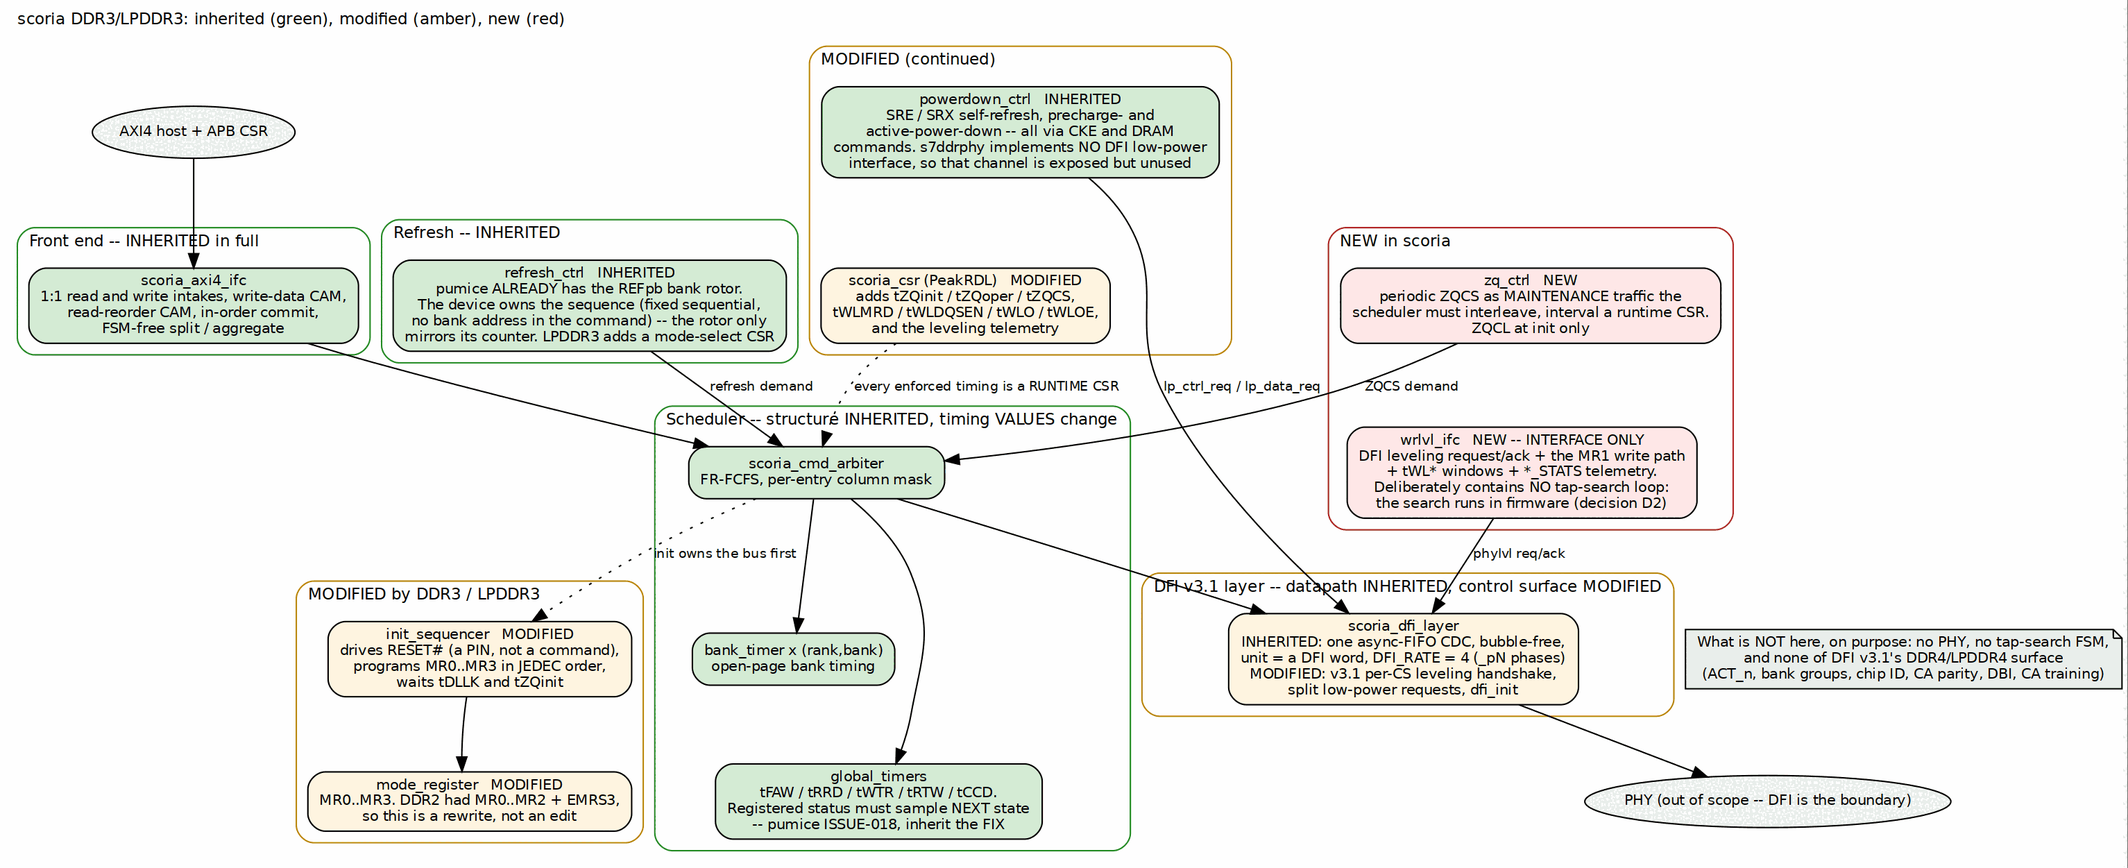
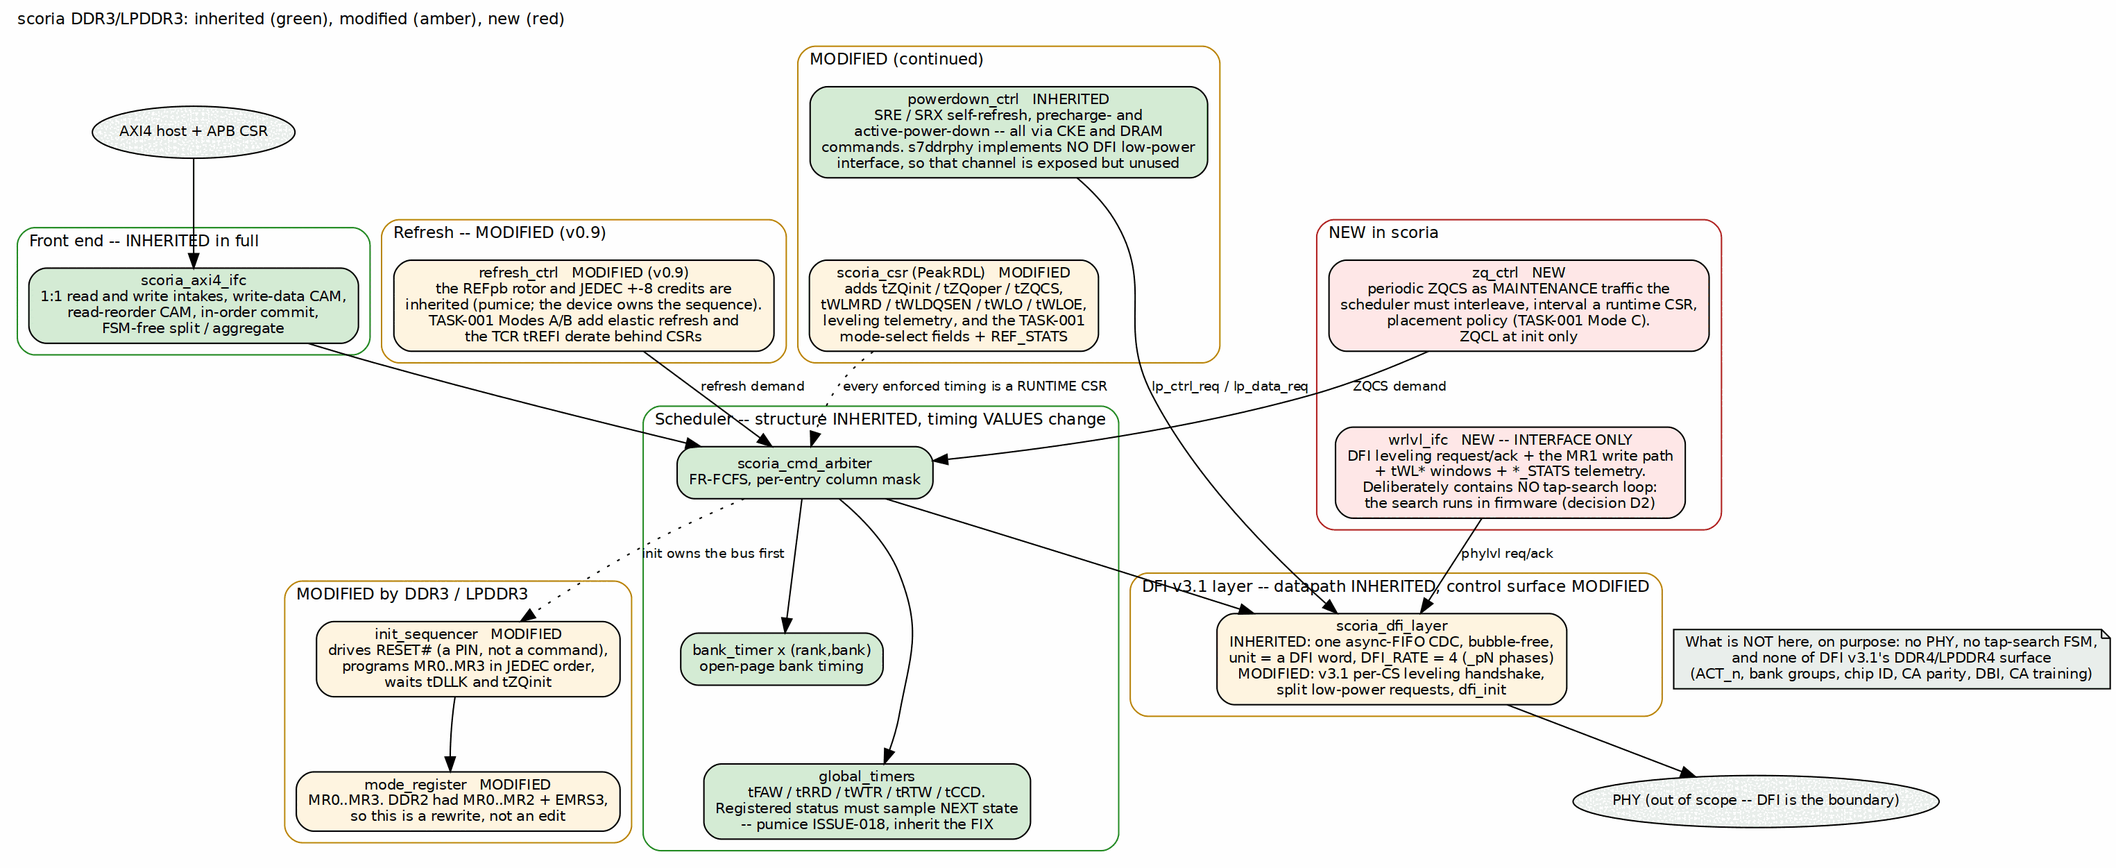
docs(scoria): HAS v0.9 -- TASK-001 advanced modes (A/B/C) specified in Ch 2/3/5

diff --git a/projects/components/mem-ctrl-ip/scoria-ddr3-lpddr3/docs/scoria_has/ch03_architecture/04_refresh.md b/projects/components/mem-ctrl-ip/scoria-ddr3-lpddr3/docs/scoria_has/ch03_architecture/04_refresh.md
@@ -23,12 +23,17 @@
 
 # Refresh: DDR3 All-Bank and LPDDR3 Per-Bank
 
-## Marking: INHERITED, with a mode select
+## Marking: MODIFIED (v0.9) — inherited mechanism, TASK-001 modes on top
 
-This chapter changed between v0.1 and v0.2 of this document. v0.1 marked
-`refresh_ctrl` MODIFIED on the assumption that LPDDR3 per-bank refresh was new
-work. It is not: **pumice already implements it**, for LPDDR2, and the mechanism
-LPDDR3 specifies is the same one.
+This chapter's marking has now changed twice. v0.1 marked `refresh_ctrl`
+MODIFIED on the assumption that LPDDR3 per-bank refresh was new work. v0.2
+corrected it to INHERITED, because **pumice already implements it**, for
+LPDDR2, and the mechanism LPDDR3 specifies is the same one. v0.9 corrects it
+once more, to MODIFIED: the inherited mechanism described below is unchanged,
+but TASK-001's Modes A and B — demand-aware elastic refresh and
+temperature-compensated refresh — are a named, bounded change layered on top
+of it. They are scheduling policy only; the JEDEC ±8 credit ceiling is
+untouched. The modes are specified at the end of this chapter.
 
 ## What pumice already has
 
@@ -112,4 +117,53 @@ this family has been bitten by before.
 knowing about, because it looks like an arbitrary constant. Demand is CAM
 occupancy, which blinks off for a few cycles between bursts; treating those
 micro-gaps as idle would release postponed refreshes mid-stream and trigger
-pull-ins. Only a sustained gap counts, confirmed over sixteen cycles.
+pull-ins. Only a sustained gap counts — confirmed over sixteen cycles in the
+inherited baseline, and over the CSR-configurable `pullin_idle_streak`
+(reset 16, the same value) once Mode A below is enabled.
+
+## What TASK-001 adds: Modes A and B
+
+Both modes are CSR-selected, reset to off, and bit-identical to the baseline
+above when disabled — the same "config not param" rule the rest of the
+controller runs on. Per-mode design detail lives in
+`design-requirements.md` §6; only the architecture-relevant contract is
+restated here.
+
+### Mode A — demand-aware elastic refresh
+
+`REF_CTRL.elastic_en` (reset 0 = baseline), with two threshold fields in the
+same register: `pullin_idle_streak` (reset 16 — the inherited constant, now
+sweepable) and `postpone_demand_streak` (reset 1).
+
+- **Pull-in** fires only after demand has been idle for `pullin_idle_streak`
+  MC cycles, generalizing the inherited sixteen-cycle confirmation into a
+  host-sweepable threshold.
+- **Postpone** engages only under a sustained demand streak of
+  `postpone_demand_streak` cycles. Below that, demand counts as sporadic and
+  the strict baseline stands: a refresh is requested on every interval expiry
+  while anything is pending.
+- The JEDEC ±8 postpone/pull-in credits remain the hard ceiling in every
+  configuration; Mode A never touches the credit arithmetic.
+- Telemetry: `REF_STATS_POSTPONE` / `REF_STATS_PULLIN` count the events, so
+  an elastic-refresh sweep is measurable in-system rather than inferred.
+
+### Mode B — temperature-compensated refresh (TCR)
+
+`REF_CTRL.tcr_en` (reset 0) + `trefi_derate` (reset 0 = 1x; 1 = 2x, 2 = 4x;
+the illegal encoding 3 clamps to 4x). Firmware writes the JESD79-3F §7.3.3
+refresh-rate class and the tREFI tick scales with it — a cheaper refresh rate
+where temperature allows, at a retention margin the temperature guarantees.
+Three properties matter:
+
+- Derate applies to the **counter reload only**: a mid-interval CSR change
+  takes effect on the next reload; the running counter is not rescaled.
+- `TEMP_DERATE_RANK0` keeps its LPDDR3-MR4 hardware-written path untouched
+  for the future LPDDR3 build; the DDR3 path is this software-written select.
+- The retention property is **re-derived with the derate factor in the
+  interval arithmetic** — the same rule as `REFpb` above: a changed interval
+  changes the proof, and the proof is never carried forward green.
+
+Formal status: with both modes present, the retention and accounting
+properties remain green in `formal/scoria/refresh_ctrl`, with cover points at
+the configured pull-in streak boundary (evidence: scoria TASK-001 close,
+2026-10-03).

diff --git a/projects/components/mem-ctrl-ip/scoria-ddr3-lpddr3/docs/scoria_has/ch02_overview/03_module_hierarchy.md b/projects/components/mem-ctrl-ip/scoria-ddr3-lpddr3/docs/scoria_has/ch02_overview/03_module_hierarchy.md
@@ -51,13 +51,14 @@ fixed form — see Chapter 2.2), `scoria_cmd_arbiter`, `scoria_page_policy`,
 `scoria_wr_intake`, `scoria_wr_splitter`, `scoria_rd_return_ring`,
 `scoria_axi_burst_chopper`, `scoria_dfi_cdc`, `scoria_dfi_cmd_path`,
 `scoria_dfi_rd_aligner`, `scoria_dfi_wr_serializer`,
-`scoria_cmd_history_checker`, and **`refresh_ctrl`** -- which already carries the
-`REFpb` bank rotor for LPDDR2 and needs only a mode-select CSR for LPDDR3, and
-**`powerdown_ctrl`** -- power-down is CKE plus `SRE`/`SRX` on this PHY family,
-so only the new command encodings change, and **`dfi_signal_pack`** -- a pure
-registered pipeline stage whose packed signals v3.1 does not touch.
+`scoria_cmd_history_checker`, and **`powerdown_ctrl`** -- power-down is CKE
+plus `SRE`/`SRX` on this PHY family, so only the new command encodings
+change, and **`dfi_signal_pack`** -- a pure registered pipeline stage whose
+packed signals v3.1 does not touch.
 
-That is 21 of the 24 FUBs carried over with no functional change. The command
+That is 20 of the 24 FUBs carried over with no functional change; the count
+was 21 through v0.8, and `refresh_ctrl` is the one that moved — into the
+modified table below, for TASK-001's Modes A/B (Ch 3.4). The command
 history checker is worth naming explicitly: it is the verification-side block
 that independently re-derives JEDEC spacing from the issued command stream, and
 it must grow DDR3's parameters, but its mechanism is inherited.
@@ -69,6 +70,7 @@ it must grow DDR3's parameters, but its mechanism is inherited.
 | `init_sequencer` | DDR3 adds a `RESET#` pin and a four-register MR set | Ch 3.2 |
 | `mode_register` | MR0-MR3 replaces MR0-MR2 plus EMRS3 | Ch 3.2 |
 | `dfi_cmd_formatter` | new command encodings: `ZQCL`, `ZQCS`, `PREA` | Ch 3.2 |
+| `refresh_ctrl` | TASK-001 Modes A/B — elastic pull-in/postpone streaks and the TCR tREFI derate behind CSRs. The `REFpb` rotor and the JEDEC ±8 credit accumulator are inherited unchanged | Ch 3.4 |
 
 : Table 2.2: Modified FUBs
 
@@ -76,7 +78,7 @@ it must grow DDR3's parameters, but its mechanism is inherited.
 
 | Module | Purpose |
 |---|---|
-| `scoria_zq_ctrl` | issues `ZQCS` periodically as maintenance traffic; interval a runtime CSR. `ZQCL` is init-only and belongs to the init sequencer |
+| `scoria_zq_ctrl` | issues `ZQCS` periodically as maintenance traffic; interval a runtime CSR; CSR-selectable placement policy (TASK-001 Mode C). `ZQCL` is init-only and belongs to the init sequencer |
 | `scoria_wrlvl_ifc` | the write-leveling interface: DFI leveling handshake, MR1 write path, `tWL*` window enforcement, `*_STATS` telemetry. **No search loop** |
 
 : Table 2.3: New FUBs

diff --git a/projects/components/mem-ctrl-ip/scoria-ddr3-lpddr3/docs/scoria_has/ch00_front_matter/00_document_info.md b/projects/components/mem-ctrl-ip/scoria-ddr3-lpddr3/docs/scoria_has/ch00_front_matter/00_document_info.md
@@ -26,9 +26,9 @@
 | Field | Value |
 |-------|-------|
 | Title | scoria DDR3/LPDDR3 Family Controller — Hardware Architecture Specification |
-| Version | 0.8 |
+| Version | 0.9 |
 | Date | 2026-10-03 |
-| Status | Reconciliation edition. Specifies the controller; the RTL exists, and v0.8 reconciles the two — revision history below |
+| Status | Advanced-modes edition. v0.8 reconciled this book with the landed RTL; v0.9 specifies TASK-001's bounded advanced modes (elastic refresh, TCR, ZQCS placement) in Ch 3.2/3.4 per that RTL — revision history below |
 | Scope | Controller architecture to the DFI v3.1 boundary, for DDR3 and LPDDR3 |
 | Not in scope | The PHY; board bring-up; the DDR4/LPDDR4 features DFI v3.1 also carries |
 
@@ -71,6 +71,7 @@ it a scheduling problem and not only a sequencing one.
 
 | Version | Date | Change |
 |---------|------|--------|
+| 0.9 | 2026-10-03 | TASK-001's bounded advanced-modes tranche specified from the landed RTL: Mode A (demand-aware elastic refresh) and Mode B (TCR) in Ch 3.4, Mode C (ZQCS placement policy) in Ch 3.2, with the mode-select CSRs and `REF_STATS` telemetry in Ch 5. `refresh_ctrl` marking INHERITED → MODIFIED; the Ch 2 block diagram (figure re-rendered), module hierarchy, and Ch 3.1 deltas table updated to match (inherited FUB count 21 → 20). The refresh/ZQ portion of the TASK-008 reconciliation is thereby done; the remainder — the other inherited blocks, `tWLMRD`'s policy value, and whole-map CSR finalization — stays open in Ch 6. |
 | 0.8 | 2026-10-03 | Reconciled with the landed RTL and the first board work: verification status brought current (221 tests, 9 formal blocks, top tier AXI-in/DFI-out); `dfi_reset_n` recorded as presented under its DFI name and the two v3.1-only data-phase chip selects recorded as driven, constant `'0` at `NUM_RANKS=1` (scoria TASK-005); the board build flow and the BUG-003 100 MHz out-of-context timing result recorded. What remains for a 1.0 is restated in Chapter 6 and filed as a task. |
 | 0.7 | 2026-09-30 | Ch 3.2: DDR3's init sequence needs no precharge-all, no double refresh, no OCD pair and no second MR0 load (the DLL-reset bit is self-clearing) -- the FSM drops seven of pumice's states and adds three. Found while implementing. |
 | 0.6 | 2026-09-30 | Corrected during implementation: `dfi_signal_pack` is INHERITED, not MODIFIED -- it packs only signals DFI v3.1 leaves unchanged, and v3.1's new channels are driven at the layer above. Inherited FUBs 20 -> 21, modified 4 -> 3. |

diff --git a/projects/components/mem-ctrl-ip/scoria-ddr3-lpddr3/docs/scoria_has/ch03_architecture/01_deltas.md b/projects/components/mem-ctrl-ip/scoria-ddr3-lpddr3/docs/scoria_has/ch03_architecture/01_deltas.md
@@ -25,9 +25,12 @@
 
 ## The inheritance, stated once
 
-Twenty-one of pumice's twenty-four FUBs carry over with no functional change, as
-do the top, core, AXI4 macro and the DFI datapath. Chapter 2.3 lists them. This
-chapter covers only what changes, and the list is short by design.
+Twenty of pumice's twenty-four FUBs carry over with no functional change, as
+do the top, core, AXI4 macro and the DFI datapath. Chapter 2.3 lists them; the
+count was twenty-one through v0.8, and v0.9 moves `refresh_ctrl` to MODIFIED —
+the `REFpb` inheritance stands, but TASK-001's Modes A/B are a real change to
+the block, specified in Ch 3.4. This chapter covers only what changes, and the
+list is short by design.
 
 **The inheritance is an argument, not a convenience.** Those blocks have been
 through board bring-up, a read-path rebuild that took reads from 291.7 to
@@ -49,13 +52,13 @@ the description does not mention the flop. Copy the module.
 | `init_sequencer` | MODIFIED | `RESET#` is a pin; MR order is MR2-MR3-MR1-MR0; ZQCL closes init | 3.2 |
 | `mode_register` | MODIFIED | MR0-MR3 replaces MR0-MR2 plus EMRS3 | 3.2 |
 | `dfi_cmd_formatter` | MODIFIED | new encodings: `ZQCL`, `ZQCS`, `PREA` | 3.2 |
-| `scoria_zq_ctrl` | **NEW** | periodic `ZQCS` is maintenance traffic | 3.2 |
+| `scoria_zq_ctrl` | **NEW** | periodic `ZQCS` is maintenance traffic; carries the CSR-selectable placement policy (TASK-001 Mode C) | 3.2 |
 | `scoria_wrlvl_ifc` | **NEW** | DDR3 adds write leveling | 3.3 |
-| `refresh_ctrl` | INHERITED | pumice already implements `REFpb`; LPDDR3 uses the same device-fixed mechanism. Only a mode-select CSR is added | 3.4 |
+| `refresh_ctrl` | MODIFIED (v0.9) | the `REFpb` mechanism is inherited unchanged, but TASK-001 Modes A/B add elastic pull-in/postpone streaks and the TCR tREFI derate behind CSRs; JEDEC ±8 ceiling untouched | 3.4 |
 | `powerdown_ctrl` | INHERITED | mechanism unchanged: CKE + `SRE`/`SRX`. The DFI low-power channel is unused on this PHY family | below |
 | `dfi_signal_pack` | INHERITED | every signal it packs is identical in v2.1.1 and v3.1 for DDR3; v3.1's new channels are driven at the layer above | Ch 4.1 |
 | `scoria_mem_cmd_scheduler` | MODIFIED | must admit ZQ demand alongside refresh | 3.2 |
-| `scoria_csr` | MODIFIED | new timing registers and leveling telemetry | Ch 5 |
+| `scoria_csr` | MODIFIED | new timing registers and leveling telemetry; TASK-001 mode-select fields and `REF_STATS` telemetry | Ch 5 |
 
 : Table 3.1: Every change, with its cause
 

diff --git a/projects/components/mem-ctrl-ip/scoria-ddr3-lpddr3/docs/scoria_has/ch06_integration/01_verification_open.md b/projects/components/mem-ctrl-ip/scoria-ddr3-lpddr3/docs/scoria_has/ch06_integration/01_verification_open.md
@@ -86,8 +86,14 @@ The four verification items named above remain the coverage plan for the
 DDR3-specific behaviour; this edition does not claim they are all complete.
 What separates this edition from a 1.0 is stated below and filed as a task.
 
-2026-10-03, TASK-001's bounded tranche exists behind CSRs; per-mode design in
-`design-requirements.md` §6; block-by-block confirmation is TASK-008's pass.
+2026-10-03 (v0.9): TASK-001's bounded tranche exists behind CSRs and is now
+specified in this book — Modes A/B (elastic refresh, TCR) in Chapter 3.4, Mode
+C (ZQCS placement) in Chapter 3.2 — per the landed RTL, with per-mode design
+detail in `design-requirements.md` §6. Evidence (scoria TASK-001 close): 211
+FUB + 21 macro + 4 top tests, Verilator and Verible lint green, and the
+refresh retention/accounting properties re-proved with the modes present in
+`formal/scoria/refresh_ctrl`. Block-by-block confirmation of the remaining
+INHERITED blocks is still TASK-008's pass.
 
 ## Question resolutions (v0.2)
 
@@ -224,13 +230,15 @@ Three things, in order:
 2. This document reconciled against the RTL block by block — every
    INHERITED marking either confirmed or corrected. v0.8 reconciled what
    implementation and the first board work had settled (revision history,
-   Ch 0); the block-by-block confirmation pass remains. A marking that turns
-   out to be wrong is a defect in this document, and the correction goes here
-   rather than being dropped silently.
+   Ch 0); v0.9 completed the pass for the two blocks TASK-001 had just
+   changed (refresh in Ch 3.4, ZQ in Ch 3.2); the block-by-block
+   confirmation of the remaining inherited blocks is still to do. A marking
+   that turns out to be wrong is a defect in this document, and the
+   correction goes here rather than being dropped silently.
 3. The exact CSR map, which comes from the RDL and cannot honestly precede it.
    The RDL now exists (`rtl/macro/scoria_csr.rdl`, with generated
    documentation and Python regmap); finalizing the map against it is part of
    the same pass.
 
-Until then this is a 0.8: a specification that matches what has been built and
+Until then this is a 0.9: a specification that matches what has been built and
 verified, and explicit about what remains unconfirmed.

diff --git a/projects/components/mem-ctrl-ip/scoria-ddr3-lpddr3/docs/scoria_has/ch03_architecture/02_init_zq.md b/projects/components/mem-ctrl-ip/scoria-ddr3-lpddr3/docs/scoria_has/ch03_architecture/02_init_zq.md
@@ -100,14 +100,27 @@ shape as refresh, and refresh has its own controller for the same reason.
 - raises a demand to the scheduler rather than seizing the bus;
 - enforces `tZQCS` before releasing the bus back;
 - reports a count of issued calibrations, so the interval can be confirmed from
-  the host rather than assumed.
+  the host rather than assumed;
+- carries a CSR-selectable **placement policy** (`ZQ_CFG.placement`,
+  TASK-001 Mode C, specified below).
 
 **The scheduler change is one input, not a rework.** `scoria_mem_cmd_scheduler`
 already arbitrates refresh demand against demand traffic; ZQ adds a second
 maintenance source with the same shape.
 
-**Note:** whether ZQCS should ever *preempt* queued demand traffic, or only fill
-gaps, is deliberately not fixed in this edition. The baseline requirement is that
-periodic ZQCS is issued at all, with the interval observable and settable.
-Cleverness about placement is a characterization question, and scoria TASK-001
-already owns the survey of scheduling modes.
+**Placement policy (v0.9, TASK-001 Mode C).** Whether ZQCS should *preempt*
+queued demand traffic, or only fill gaps, is no longer an open question — it
+is a CSR-selectable policy, reset to the baseline. `ZQ_CFG.placement`
+selects: 0 = request on interval expiry (the baseline above); 1 =
+defer-under-demand — at expiry, if the scheduler reports sustained demand,
+the request is held rather than raised, up to `ZQ_CFG.overdue_max` MC cycles
+(0 = uncapped), after which the request fires regardless. Policy value 2 is
+reserved. Two things hold in every policy: the module still **requests and
+waits — it never preempts** (the Ch 6 Q2 answer stands), and `tZQCS` is still
+enforced by holding off the next interval rather than blocking traffic. The
+starvation revisit condition named in Ch 6 Q2 — the interval slipping
+materially past its CSR value under sustained demand — is now measurable
+with the instruments this block already carries (`obs_overdue`,
+`obs_zqcs_total`) plus the `overdue_max` cap itself, which turns runaway
+deferral from a suspected hang into a bounded, observable policy choice.
+Per-mode design detail is in `design-requirements.md` §6.

diff --git a/projects/components/mem-ctrl-ip/scoria-ddr3-lpddr3/docs/scoria_has/ch02_overview/02_block_diagram.md b/projects/components/mem-ctrl-ip/scoria-ddr3-lpddr3/docs/scoria_has/ch02_overview/02_block_diagram.md
@@ -58,13 +58,19 @@ block from the same description would reintroduce the bug.
 **The amber blocks are the three FUBs the standards change:** the init
 sequencer, the mode-register block, and `dfi_cmd_formatter` for the new
 command encodings — plus the CSR block, which grows to hold the new timings.
+v0.9 adds a fourth FUB to the amber set: `refresh_ctrl`, for TASK-001's
+Modes A/B (Chapter 3.4) — a CSR-selected scheduling-policy layer, not a
+mechanism change.
 
-**Note:** refresh and power-down are green, and both were amber in earlier
-editions of this book. Refresh because pumice already implements `REFpb` and the
-device owns the sequence (Chapter 3.4); power-down because it works through CKE
-and `SRE`/`SRX`, and the DFI low-power channel that v0.2 built a requirement
-around is not implemented by this PHY family at all (Chapter 3.1). Both
-corrections came from reading an artifact instead of reasoning about one.
+**Note:** power-down is green, and was amber in earlier editions of this book:
+it works through CKE and `SRE`/`SRX`, and the DFI low-power channel that v0.2
+built a requirement around is not implemented by this PHY family at all
+(Chapter 3.1). Refresh was corrected to green the same way — pumice already
+implements `REFpb` and the device owns the sequence (Chapter 3.4) — and v0.9
+turns it amber again, for a different reason: TASK-001's Modes A/B add a
+CSR-selected scheduling-policy layer (elastic refresh, TCR) on top of the
+inherited mechanism. Both corrections came from reading an artifact instead of
+reasoning about one.
 
 `dfi_signal_pack` went the same way during implementation: marked MODIFIED for
 the "v3.1 signal set", it turned out to pack only signals v3.1 leaves alone.

diff --git a/projects/components/mem-ctrl-ip/scoria-ddr3-lpddr3/docs/scoria_has/scoria_has_index.md b/projects/components/mem-ctrl-ip/scoria-ddr3-lpddr3/docs/scoria_has/scoria_has_index.md
@@ -23,9 +23,9 @@
 
 # scoria DDR3/LPDDR3 Family Controller — Hardware Architecture Specification
 
-**Version:** 0.8
+**Version:** 0.9
 **Date:** 2026-10-03
-**Status:** v0.8, reconciliation edition. **No open questions remain** -- Q1-Q5 are answered or struck (Ch 6). The RTL now exists and is verified (221 tests, 9 formal blocks, measured 2026-10-01), and this edition reconciles the specification with what implementation and the first board work have settled. Every block is
+**Status:** v0.9, advanced-modes edition. **No open questions remain** -- Q1-Q5 are answered or struck (Ch 6). The RTL exists and is verified (221 tests, 9 formal blocks, measured 2026-10-01; TASK-001's modes then added 211 FUB + 21 macro + 4 top tests with the refresh proofs re-run, per its close), and v0.8 reconciled the specification with what implementation and the first board work had settled. v0.9 specifies TASK-001's bounded advanced modes — elastic refresh and TCR (Ch 3.4), ZQCS placement (Ch 3.2) — from the landed RTL. Every block is
 marked **INHERITED**, **MODIFIED** or **NEW** against the pumice DDR2/LPDDR2
 controller, which is the architecture scoria is derived from.
 
@@ -40,7 +40,8 @@ this one.
 > built and measured, (b) cited to a JEDEC or DFI clause, or (c) explicitly
 > marked as an open question in Chapter 6 — and none remain as of this
 > edition. Where the implementation subsequently corrected the specification
-> (v0.6, v0.7, and this v0.8 reconciliation), the correction is recorded in
+> (v0.6, v0.7, the v0.8 reconciliation, and v0.9's advanced-modes sync), the
+> correction is recorded in
 > the revision history rather than dropped silently. Nothing else is asserted.
 
 ---

diff --git a/projects/components/mem-ctrl-ip/scoria-ddr3-lpddr3/docs/scoria_has/ch05_parameters/01_package_and_params.md b/projects/components/mem-ctrl-ip/scoria-ddr3-lpddr3/docs/scoria_has/ch05_parameters/01_package_and_params.md
@@ -82,7 +82,7 @@ those values.
 | Memtype | build | `MEMTYPE_DDR3` / `MEMTYPE_LPDDR3` |
 | JEDEC timings | **runtime** | every command-spacing and recovery parameter |
 | New DDR3 timings | **runtime** | `tZQinit`, `tZQoper`, `tZQCS`, `tWLMRD`, `tWLDQSEN`, `tWLO`, `tWLOE` |
-| Policy selects | **runtime** | page policy, refresh mode (all-bank vs `REFpb`), ZQCS interval |
+| Policy selects | **runtime** | page policy, refresh mode (all-bank vs `REFpb`), ZQCS interval, and the TASK-001 mode selects — elastic refresh, TCR derate, ZQCS placement — with their thresholds (idle/demand streaks, `overdue_max`) |
 
 : Table 5.1: Build-time versus runtime
 
@@ -102,6 +102,7 @@ content is specified:
 | ZQ | `tZQinit`, `tZQoper`, `tZQCS`, the ZQCS interval, and a count of calibrations issued |
 | Write leveling | `tWLMRD` (with its controller-defined maximum as a timeout), `tWLDQSEN`, `tWLO`, `tWLOE`, per-CS result, and the `*_STATS` telemetry of Chapter 3.3 |
 | Refresh mode | all-bank versus `REFpb` select, for LPDDR3 |
+| Advanced modes (TASK-001) | the elastic-refresh and TCR fields in `REF_CTRL`, placement/`overdue_max` in `ZQ_CFG`, and the `REF_STATS_POSTPONE` / `REF_STATS_PULLIN` telemetry — all specified in Chapters 3.2 and 3.4 |
 
 : Table 5.2: New CSR groups
 
